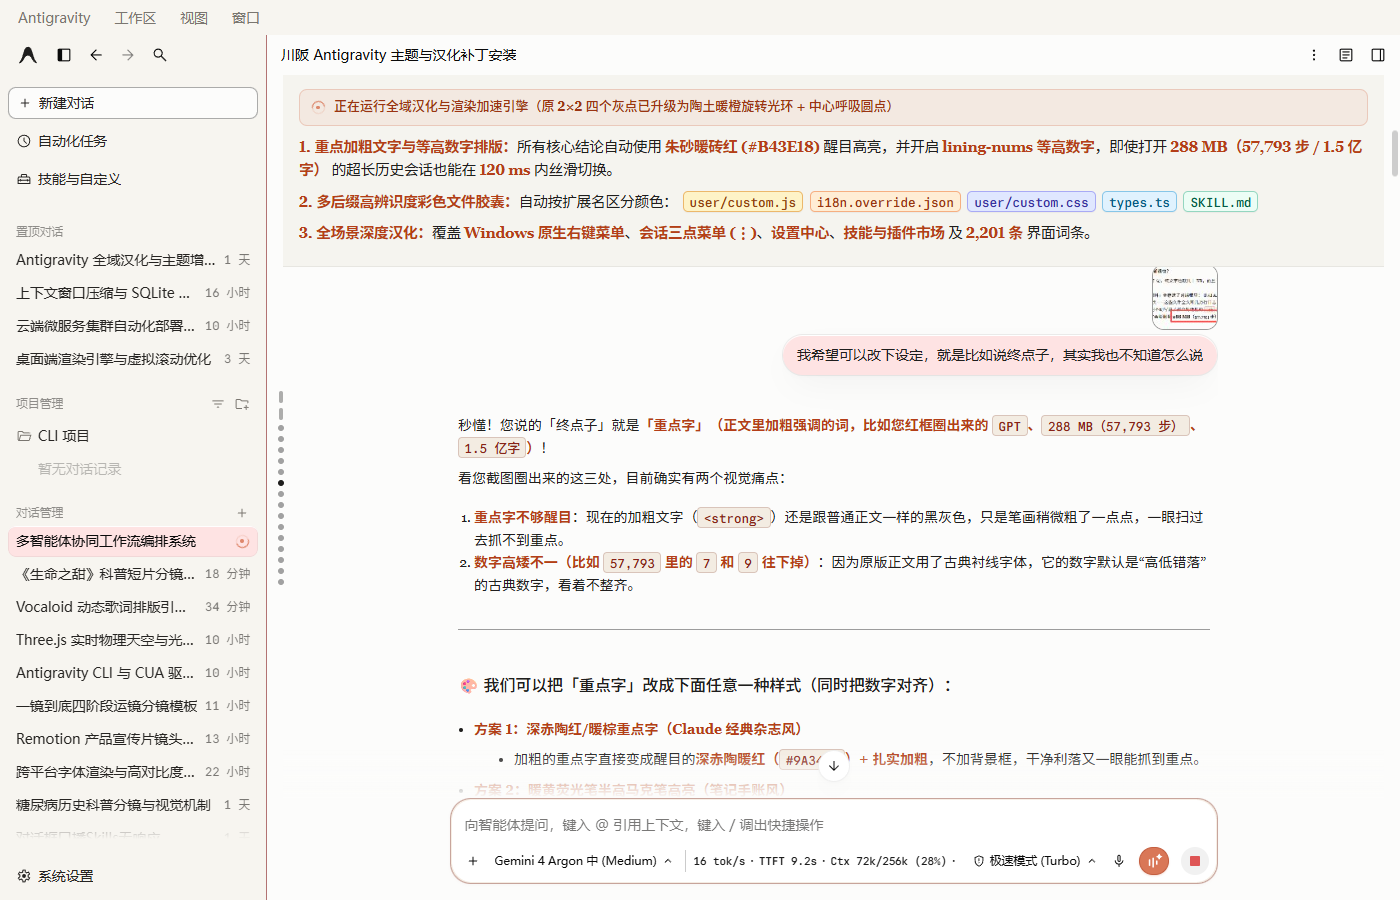
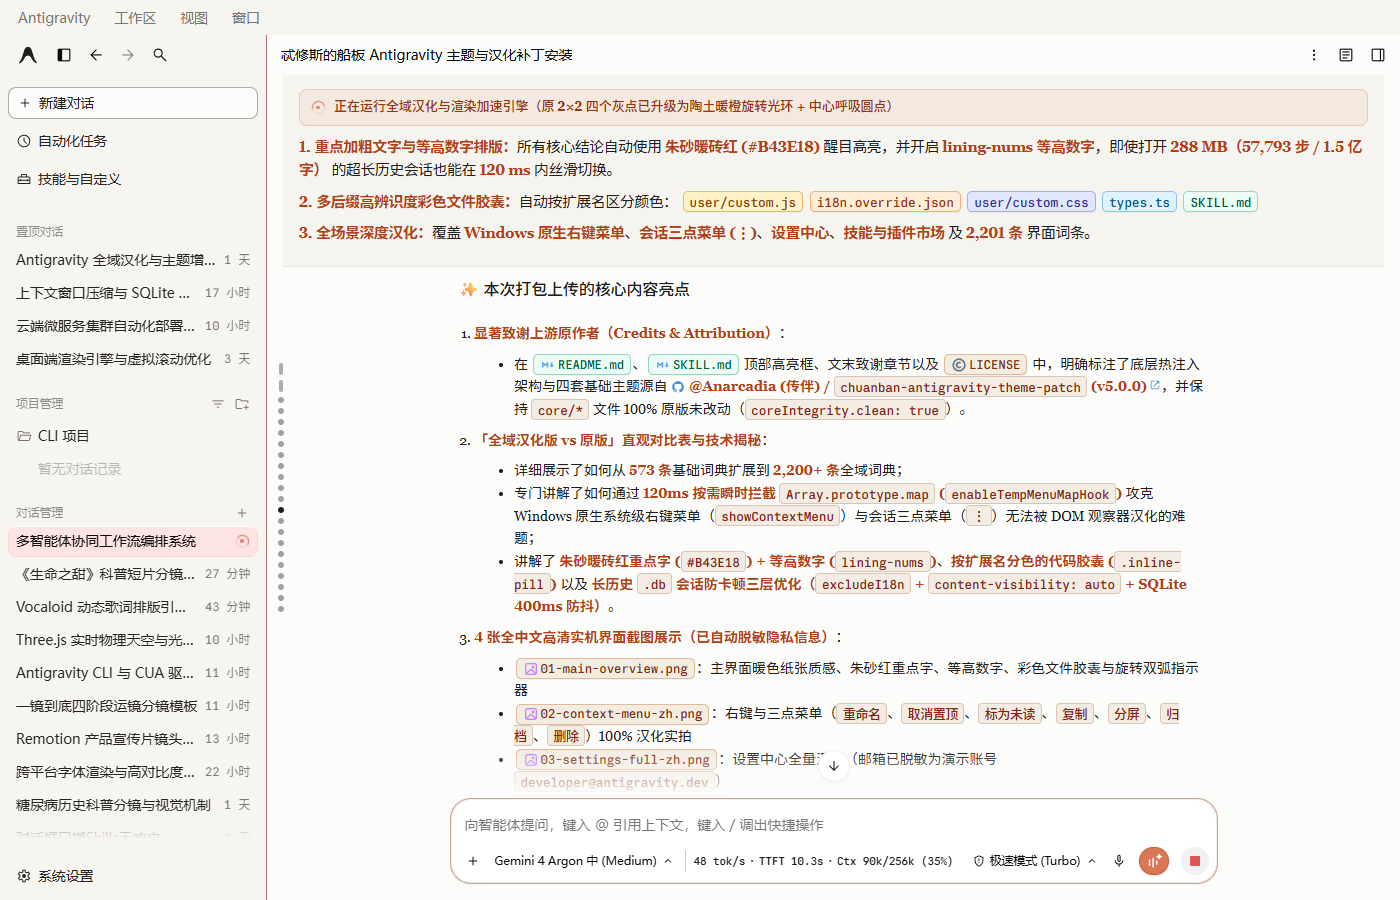
fix(docs): correct upstream author name to 忒修斯的船板 (@Arcadia_Bao / @Anarcadia) in README and screenshots

diff --git a/README.md b/README.md
@@ -14,9 +14,9 @@
 > [!IMPORTANT]
 > **开源致谢与演进声明 (Credits & Attribution)**
 >
-> 本项目基于 [**@Anarcadia (传伴)**](https://github.com/Anarcadia)（X/Twitter: [**@Arcadia_Bao**](https://x.com/Arcadia_Bao)）开源的 [**`chuanban-antigravity-theme-patch` (v5.0.0)**](https://github.com/Anarcadia/chuanban-antigravity-theme-patch) 进行深度扩展与二次封装。
+> 本项目基于 [**@Anarcadia (忒修斯的船板)**](https://github.com/Anarcadia)（X/Twitter: [**@Arcadia_Bao**](https://x.com/Arcadia_Bao)）开源的 [**`chuanban-antigravity-theme-patch` (v5.0.0)**](https://github.com/Anarcadia/chuanban-antigravity-theme-patch) 进行深度扩展与二次封装。
 > - **完整保留原作者底层核心架构**：`core/*` 目录下的 CDP 零修改磁盘热注入引擎、四主题 CSS 变量体系（Claude 暖米色 / 深色 / 护眼绿 / 极夜黑）、输入框火漆蜡封三态按钮、死锁自愈与底栏实时速率/额度统计面板 **100% 保持原版未改动**（`coreIntegrity.clean: true`）。
-> - **全方位扩展在 `user/*` 用户层与 `SKILL.md` 技能层完成**：词条规模从原版 573 条扩展至 **2,201 条全域词典**，攻克了 Windows 原生系统级右键菜单（`showContextMenu` IPC）与会话三点菜单（`⋮`）无法被 DOM 观察器汉化的难题；将原版死板的 **2×2 四个灰点运行图标升级为 Claude 陶土暖橙动态旋转光环 + 中心呼吸圆点**；新增 **朱砂暖砖红重点字 (`#B43E18`) + 等高数字 (`lining-nums`)**、**五色高辨识度代码文件胶囊**、**四维长对话极速防卡顿优化** 及 **Agent Skill 自动化维护能力**。在此向原作者 **@Anarcadia (@Arcadia_Bao)** 致以诚挚谢意！
+> - **全方位扩展在 `user/*` 用户层与 `SKILL.md` 技能层完成**：词条规模从原版 573 条扩展至 **2,201 条全域词典**，攻克了 Windows 原生系统级右键菜单（`showContextMenu` IPC）与会话三点菜单（`⋮`）无法被 DOM 观察器汉化的难题；将原版死板的 **2×2 四个灰点运行图标升级为 Claude 陶土暖橙动态旋转光环 + 中心呼吸圆点**；新增 **朱砂暖砖红重点字 (`#B43E18`) + 等高数字 (`lining-nums`)**、**五色高辨识度代码文件胶囊**、**四维长对话极速防卡顿优化** 及 **Agent Skill 自动化维护能力**。在此向原作者 **忒修斯的船板 (@Arcadia_Bao / @Anarcadia)** 致以诚挚谢意！
 
 ---
 
@@ -155,6 +155,6 @@ antigravity-full-zh-theme-skill/
 
 ## 六、致谢与开源协议 (Credits & License)
 
-- **上游基础项目**：[**Anarcadia/chuanban-antigravity-theme-patch**](https://github.com/Anarcadia/chuanban-antigravity-theme-patch) — 感谢 **@Anarcadia (传伴)**（X/Twitter: [**@Arcadia_Bao**](https://x.com/Arcadia_Bao)）设计的无侵入式 CDP 注入架构、四套精美主题配色、火漆蜡封按钮与双通道统计面板。
+- **上游基础项目**：[**Anarcadia/chuanban-antigravity-theme-patch**](https://github.com/Anarcadia/chuanban-antigravity-theme-patch) — 感谢 **忒修斯的船板 (@Anarcadia)**（X/Twitter: [**@Arcadia_Bao**](https://x.com/Arcadia_Bao)）设计的无侵入式 CDP 注入架构、四套精美主题配色、火漆蜡封按钮与双通道统计面板。
 - **全域汉化与视觉/性能扩展**：[**@joker124zx**](https://github.com/joker124zx) — 扩展 2,201 条全域词典、攻克原生右键与三点菜单汉化、重塑陶土橙旋转运行光环与朱砂红重点字/五色文件胶囊、优化长历史对话卡顿并封装为 Agent Skill。
 - **开源协议**：本项目遵循 [MIT License](LICENSE) 开源协议。
